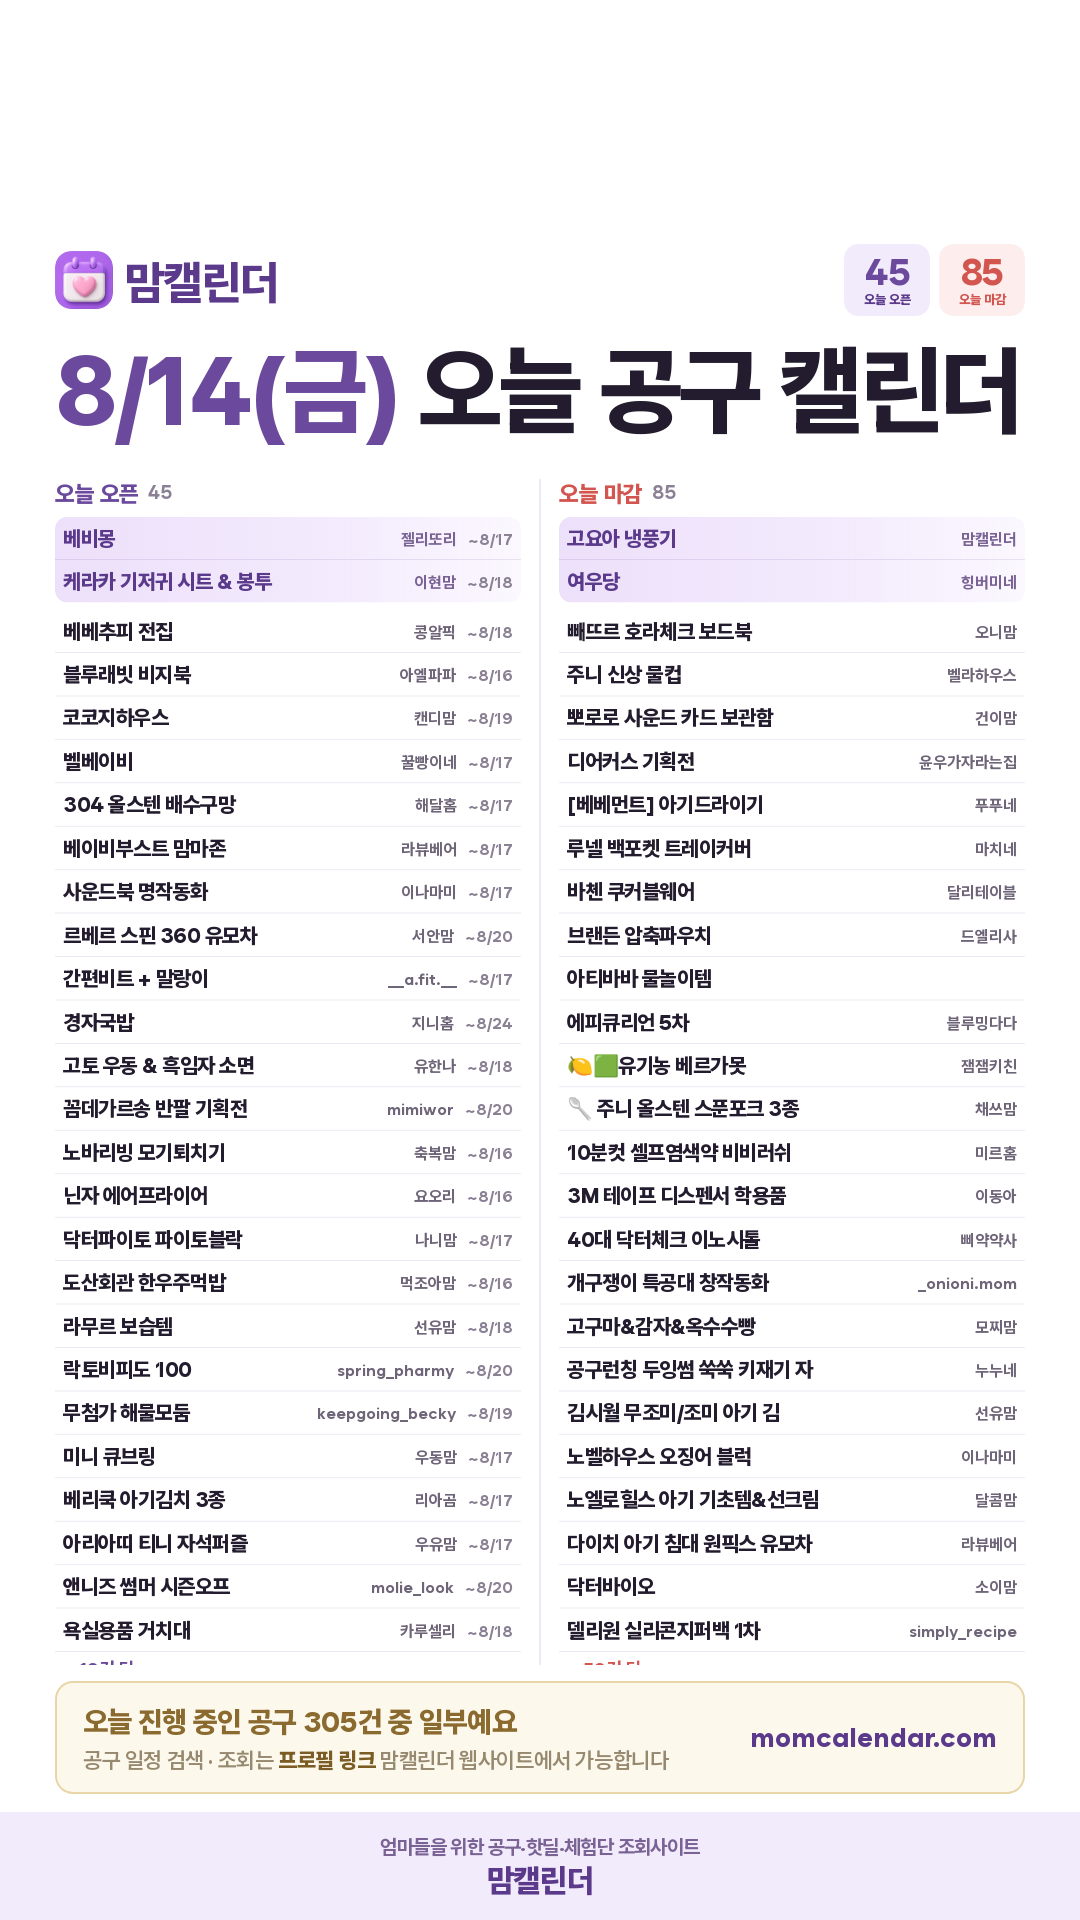
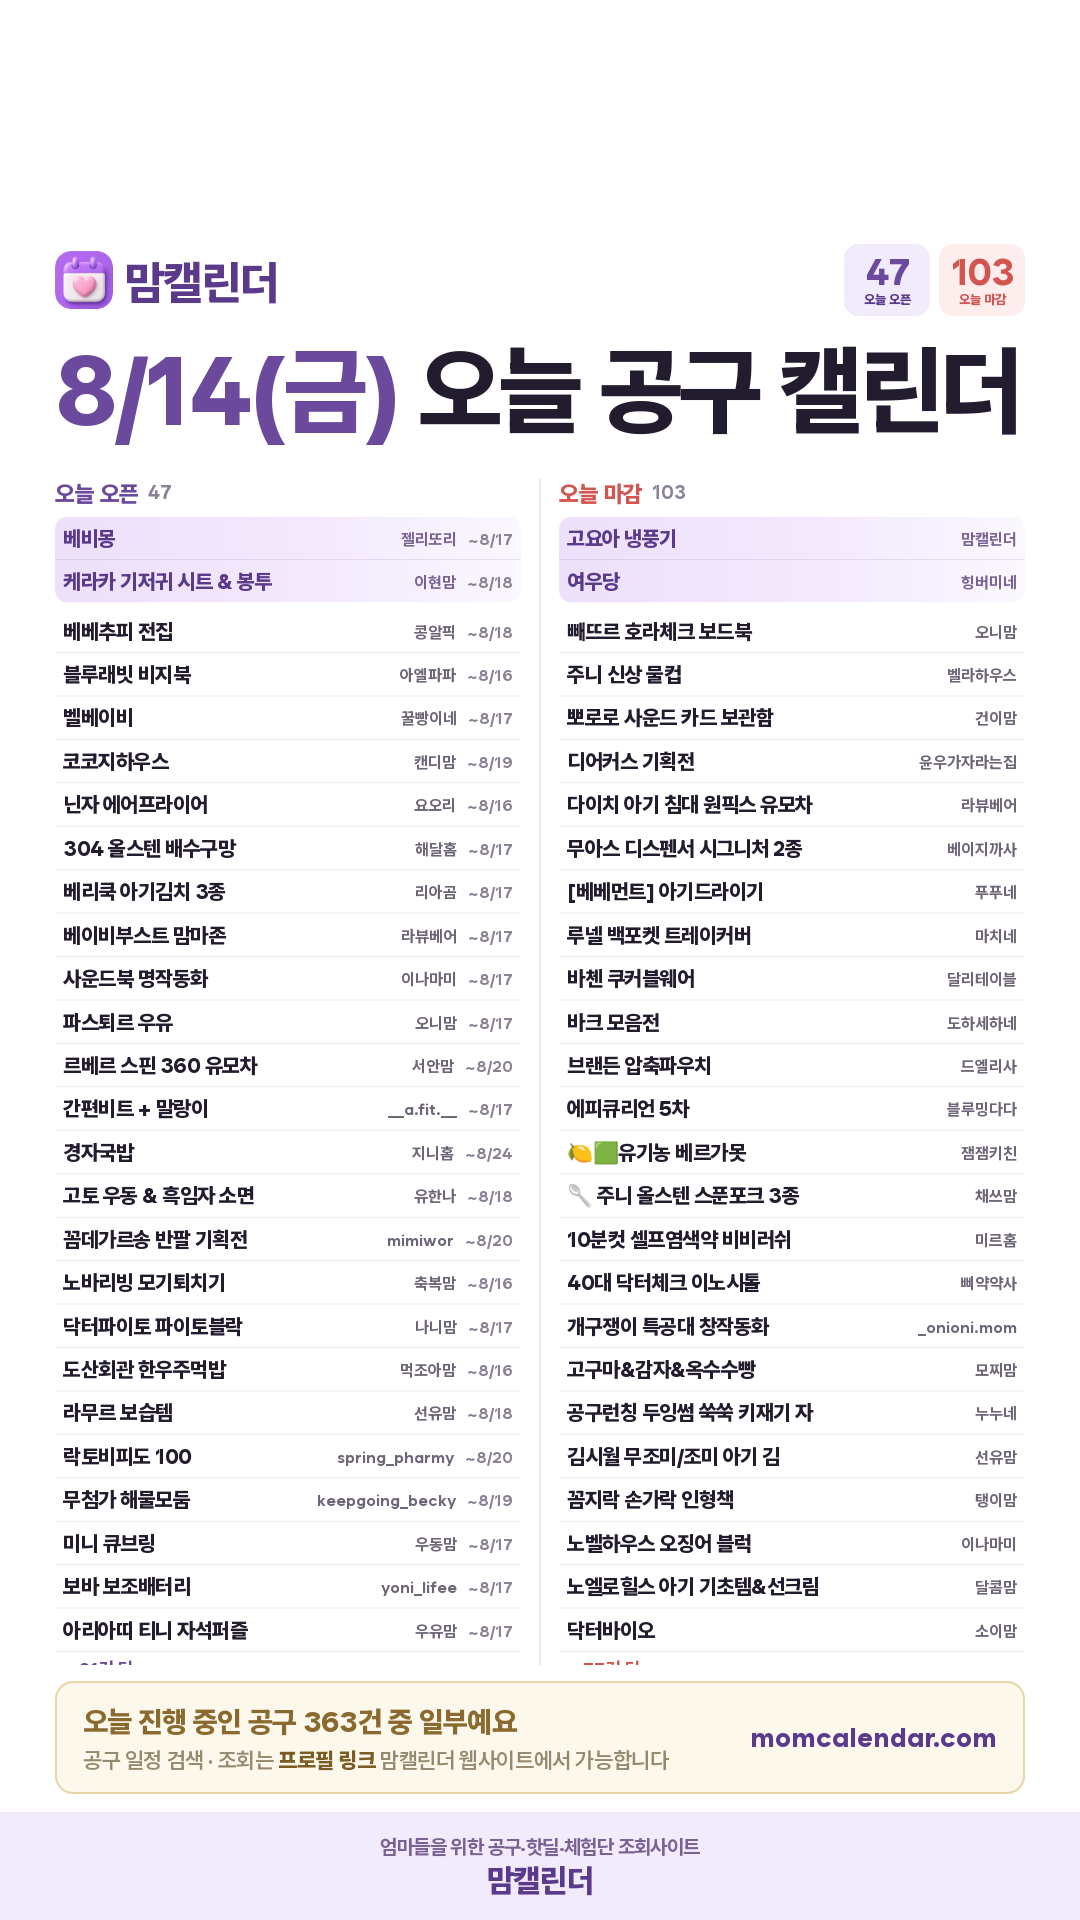
아침 인스타 카드 (2026-08-14)

diff --git a/daily/2026-08-14.html b/daily/2026-08-14.html
@@ -19,7 +19,7 @@ textarea{width:100%;height:260px;border:1px solid #E3DCEF;border-radius:10px;pad
 .todo p{font-size:12.5px;color:#6B6379;line-height:1.75;margin-top:6px}
 .todo a{color:#5B2E8C;font-weight:700}
 </style></head><body>
-<div class="hd"><div class="wrap"><h1>8월 14일(금) 인스타 카드</h1><p>오픈 45건 · 마감 85건</p></div></div>
+<div class="hd"><div class="wrap"><h1>8월 14일(금) 인스타 카드</h1><p>오픈 47건 · 마감 103건</p></div></div>
 <div class="wrap">
   <div class="todo"><b>사장님 확인 부탁드려요 · 링크프라이스 · 오늘의집 제휴 신청 (각 5분)</b><p>핫딜을 우리 수익링크로 바꿀 수 있는 곳을 늘리는 일입니다.<br>
     ① <b>링크프라이스</b> 로그인 → 머천트 검색 → <b>오늘의집·SSG</b> 제휴 신청
@@ -36,7 +36,7 @@ textarea{width:100%;height:260px;border:1px solid #E3DCEF;border-radius:10px;pad
 맘캘린더에서 공유드리는
 8월 14일(금) 오늘 공구 캘린더
 
-오픈 43건 · 마감 71건
+오픈 45건 · 마감 83건
 
 ━━━━━━━━━━━━━━
 
@@ -47,25 +47,27 @@ textarea{width:100%;height:260px;border:1px solid #E3DCEF;border-radius:10px;pad
 🔓 오늘 오픈하는 공구
 · 베베추피 전집 — 콩알픽 (~8/18)
 · 블루래빗 비지북 — 아엘파파 (~8/16)
-· 코코지하우스 — 캔디맘 (~8/19)
 · 벨베이비 — 꿀빵이네 (~8/17)
+· 코코지하우스 — 캔디맘 (~8/19)
+· 닌자 크리스피 에어프라이어 — 요오리 (~8/16)
 · 304 올스텐 배수구망 — 해달홈 (~8/17)
+· 베리쿡 아기김치 3종 — 리아곰 (~8/17)
 · 베이비부스트 맘마존 — 라뷰베어 (~8/17)
 · 사운드북 명작동화 골라담기 — 이나마미 (~8/17)
+· 파스퇴르 우유 — 오니맘 (~8/17)
 · 2026 르베르 스핀 360 유모차 — 서안맘 (~8/20)
 · 간편비트 + 말랑이 — __a.fit.__ (~8/17)
 · 경자국밥 — 지니홈 (~8/24)
 · 고토 테노베 우동 &amp; 흑임자 소면 — 유한나 (~8/18)
 · 꼼데가르송 반팔 기획전 — mimiwor (~8/20)
 · 노바리빙 모기퇴치기 — 축복맘 (~8/16)
-· 닌자 크리스피 에어프라이어 — 요오리 (~8/16)
 · 닥터파이토 파이토블락 — 나니맘 (~8/17)
 · 도산회관 한우주먹밥 — 먹조아맘 (~8/16)
 · 라무르 보습템 — 선유맘 (~8/18)
 · 락토비피도 유산균 100 — spring_pharmy (~8/20)
 · 무첨가 진짜 해물모둠 — keepgoing_becky (~8/19)
 · 미니 큐브링 — 우동맘 (~8/17)
-· 베리쿡 아기김치 3종 — 리아곰 (~8/17)
+· 보바 보조배터리 — yoni_lifee (~8/17)
 · 아리아띠 티니 자석퍼즐 — 우유맘 (~8/17)
 · 앤니즈 썸머 시즌오프 — molie_look (~8/20)
 · 욕실용품 거치대 — 카루셀리 (~8/18)
@@ -74,9 +76,7 @@ textarea{width:100%;height:260px;border:1px solid #E3DCEF;border-radius:10px;pad
 · 지구별 자연동화 — 송엘라 (~8/17)
 · 지켜텀 6종 — ssugi_table (~8/17)
 · 천연치유에센스 큐라이프 — 제제로운건강생활 (~8/18)
-· 초강력 에어건 — 마이어홈 (~8/19)
-· 코에르 욕실매트 — 돼지수 (~8/18)
-…나머지 10건은 맘캘린더 사이트에서 보실 수 있어요
+…나머지 12건은 맘캘린더 사이트에서 보실 수 있어요
 
 ⏰ 오늘 마감하는 공구
 · 고요아 냉풍기 — 맘캘린더 @momcal_
@@ -85,33 +85,33 @@ textarea{width:100%;height:260px;border:1px solid #E3DCEF;border-radius:10px;pad
 · 주니 신상 물컵 — 벨라하우스
 · 뽀로로 사운드 카드 보관함 — 건이맘
 · 디어커스 기획전 — 윤우가자라는집
+· 다이치 아기 침대 원픽스 유모차 — 라뷰베어
+· 무아스 디스펜서 시그니처 2종 — 베이지까사
 · [베베먼트] 아기드라이기 — 푸푸네
 · 루넬 트립트랩 백포켓+트레이커버 — 마치네
 · 바첸 쿠커블웨어 — 달리테이블
+· 바크 모음전 — 도하세하네
 · 브랜든 압축파우치 — 드엘리사
-· 아티바바 물놀이템 — 
 · 에피큐리언 5차 — 블루밍다다
 · 🍋🟩유기농 베르가못 — 잼잼키친
 · 🥄 주니 올스텐 스푼포크 3종 — 채쓰맘
 · 10분컷 셀프염색약 비비러쉬 — 미르홈
-· 3M 테이프 디스펜서 + 학용품 모음전 — 이동아
 · 40대 1 이노시톨 닥터체크 이노시톨 — 삐약약사
 · 개구쟁이 특공대 창작동화 — _onioni.mom
 · 고구마&amp;감자&amp;옥수수빵 — 모찌맘
 · 공구런칭 두잉썸 쑥쑥 키재기 자 — 누누네
 · 김시월 무조미/조미 아기 김 — 선유맘
+· 꼼지락 손가락 인형책 — 탱이맘
 · 노벨하우스 오징어 블럭 — 이나마미
 · 노엘로힐스 아기 기초템&amp;선크림 — 달콤맘
-· 다이치 아기 침대 원픽스 유모차 — 라뷰베어
 · 닥터바이오 — 소이맘
 · 델리원 실리콘지퍼백 1차 — simply_recipe
 · 라무르 선케어템 + 전제품 — 아이러브유니
 · 마시는 수액 워터온 — yak_father
 · 마인크래프트 큐브블록 — 오꼬베
+· 마티앙쥬 미술가운 — 용복맘
 · 명희홈쿡 바로육수 — 명희홈쿡
-· 모슈텀블러 — 살구홈
-· 모오아 과일세척기 — 러브율홈
-…나머지 39건은 맘캘린더 사이트에서 보실 수 있어요
+…나머지 51건은 맘캘린더 사이트에서 보실 수 있어요
 
 ━━━━━━━━━━━━━━
 
@@ -124,12 +124,12 @@ textarea{width:100%;height:260px;border:1px solid #E3DCEF;border-radius:10px;pad
 ⚠ 공구 일정은 판매자 사정에 따라 변경되거나 조기 마감될 수 있어요. 구매 전에 해당 셀러 계정에서 한 번 더 확인해 주세요.
 
 #맘캘린더 #공구일정 #육아공구 #육아용품 #책육아 #공구추천 #육아맘 #맘스타그램 #공동구매 #육아정보 #공구정보 #육아템</textarea>
-    <div class="meta">2179자 / 2200자 · 오픈 31/41 · 마감 32/71</div>
+    <div class="meta">2189자 / 2200자 · 오픈 31/43 · 마감 32/83</div>
     <button class="btn btn2" onclick="cp('cap','캡션')">캡션 복사</button>
   </div>
   <div class="card">
     <div class="meta" style="margin:0 0 8px;font-weight:800;color:#5B2E8C">네이버 블로그용 (blog.naver.com/momcal) — 수정해서 쓰셔도 돼요</div>
-    <textarea id="btitle" style="height:54px">8월 14일(금) 닌자·간편비트·닥터파이토·락토비피도·노바리빙·라무르·욕실용품·지켜텀 공구 오픈 | 공구 일정 모음</textarea>
+    <textarea id="btitle" style="height:54px">8월 14일(금) 닌자·간편비트·닥터파이토·락토비피도·노바리빙·라무르·보바·욕실용품 공구 오픈 | 공구 일정 모음</textarea>
     <button class="btn btn2" onclick="cp('btitle','블로그 제목')">블로그 제목 복사</button>
     <textarea id="bbody" style="margin-top:9px">맘캘린더 채널 한눈에
 · 전체 공구 일정 실시간 검색 → https://momcalendar.com
@@ -142,12 +142,12 @@ textarea{width:100%;height:260px;border:1px solid #E3DCEF;border-radius:10px;pad
 · 카톡 수다방 → https://open.kakao.com/o/gr2kJhCh
 ─────────────
 
-8월 14일(금), 오늘 새로 오픈하는 인스타 공구일정 45건을 카테고리별로 정리했어요.
-오늘 마감되는 공구도 86건 있으니 놓치지 마세요.
+8월 14일(금), 오늘 새로 오픈하는 인스타 공구일정 47건을 카테고리별로 정리했어요.
+오늘 마감되는 공구도 105건 있으니 놓치지 마세요.
 
 (여기에 저장해 두신 카드 사진을 넣어주세요)
 
-■ 오늘 오픈하는 공구 45건
+■ 오늘 오픈하는 공구 47건
 
 [육아]
 · 2026 르베르 스핀 360 유모차 — 서안맘 (~8/20 마감)
@@ -173,6 +173,7 @@ textarea{width:100%;height:260px;border:1px solid #E3DCEF;border-radius:10px;pad
 · 304 올스텐 배수구망 — 해달홈 (~8/17 마감)
 · 노바리빙 모기퇴치기 — 축복맘 (~8/16 마감)
 · 라무르 보습템 — 선유맘 (~8/18 마감)
+· 보바 보조배터리 — yoni_lifee (~8/17 마감)
 · 욕실용품 거치대 — 카루셀리 (~8/18 마감)
 · 지켜텀 6종 — ssugi_table (~8/17 마감)
 · 초강력 에어건 — 마이어홈 (~8/19 마감)
@@ -208,9 +209,10 @@ textarea{width:100%;height:260px;border:1px solid #E3DCEF;border-radius:10px;pad
 · 앤니즈 썸머 시즌오프 — molie_look (~8/20 마감)
 
 [여행]
+· 타고가요 캐리어 특가 — 양미라 (~8/20 마감)
 · 타월톡톡 호텔수건 — 집순키친 (~8/17 마감)
 
-■ 오늘 마감하는 공구 86건
+■ 오늘 마감하는 공구 105건
 · [베베먼트] 아기드라이기 — 푸푸네
 · 🍋🟩유기농 베르가못 — 잼잼키친
 · 🥄 주니 올스텐 스푼포크 3종 — 채쓰맘
@@ -225,6 +227,7 @@ textarea{width:100%;height:260px;border:1px solid #E3DCEF;border-radius:10px;pad
 · 고요아 냉풍기 — 맘캘린더
 · 공구런칭 두잉썸 쑥쑥 키재기 자 — 누누네
 · 김시월 무조미/조미 아기 김 — 선유맘
+· 꼼지락 손가락 인형책 — 탱이맘
 · 노벨하우스 오징어 블럭 — 이나마미
 · 노엘로힐스 아기 기초템&amp;선크림 — 달콤맘
 · 다이치 아기 침대 원픽스 유모차 — 라뷰베어
@@ -233,6 +236,7 @@ textarea{width:100%;height:260px;border:1px solid #E3DCEF;border-radius:10px;pad
 · 담백하루 프리미엄 단백질쉐이크🤎 — 남약사
 · 델리원 실리콘지퍼백 1차 — simply_recipe
 · 디어커스 기획전 — 윤우가자라는집
+· 디어커스 총판 — 또니맘
 · 디어커스 팝콘백 — 별난맘
 · 라무르 선케어템 + 전제품 — 아이러브유니
 · 라무르 선쿠션 선로션 — __ahyoonss
@@ -241,18 +245,25 @@ textarea{width:100%;height:260px;border:1px solid #E3DCEF;border-radius:10px;pad
 · 리라그루브 필기도구 세트 — 건이맘
 · 마시는 수액 워터온 — yak_father
 · 마인크래프트 큐브블록 — 오꼬베
+· 마티앙쥬 미술가운 — 용복맘
 · 명희홈쿡 바로육수 — 명희홈쿡
 · 모슈텀블러 — 살구홈
 · 모오아 과일세척기 — 러브율홈
 · 목욕놀이 4종 색깔·구름·폭탄·배쓰밤 6차 — 1201w__love
+· 몰리멜리 가을신상 — 마이희로
 · 무아스 디스펜서 시그니처 2종 — 베이지까사
 · 무항생제 프리미엄 장어 — 웰씨
 · 미라클 탱글오징어 — miracle_eunju119
 · 미라클통 식재료 보관용기 2차 — 다다맘
 · 바겐슈타이거 스텐박스 — minhi.house
 · 바첸 쿠커블웨어 — 달리테이블
+· 바크 모음전 — 도하세하네
 · 밥스누 우아한김 — 앤지맘
+· 버드시아 욕조용 아기세면대+욕실의자 — 또후니맘
 · 베디베로 선글라스 기획전 — 앙젤리크
+· 베베먼트 무선 아기 드라이기 — 푸푸네집
+· 벨베이비 레일퍼즐 — 다니랑
+· 보라카이 — yupi25
 · 브랜든 압축파우치 — 드엘리사
 · 빈투움 청소 도구 수납함 — 블라제이
 · 빼뜨르 호라체크 보드북 — 오니맘
@@ -260,19 +271,26 @@ textarea{width:100%;height:260px;border:1px solid #E3DCEF;border-radius:10px;pad
 · 뽀로로 미술놀이&amp;스티커북 — 
 · 뽀로로 사운드 카드 보관함 — 건이맘
 · 뽀로로 카페 신상텐트 펫 장난감 핫딜 — 6a.how
+· 뽀로로 텐트&amp;뽀로로 미니펫 — 육아노하우
 · 삼천리 샘트라이크 2026 콤팩트 — seono_life
 · 상국이네 떡볶이 — 대장언니
 · 생활특권 방수 대형 빈백 — 축복맘
 · 세부 제이파크 — 여행특가 말랑맘
 · 슈로스바 — shanii.mom
 · 슈퍼 매직 파닉스 — 
+· 스냅키드 타이어 주차타워 — 라리맘
+· 스노우키즈 미술놀이 — 용복맘
+· 아가드 분수매트 — 쓰리빈즈
+· 아기상어 목욕놀이 — 강윤맘
 · 아기상어 빛따라그리기 테이블 — 모락맘
 · 아티바바 물놀이템 — 
 · 아티잔 사각싱크볼 — mini_home_____
+· 앙블랑 물티슈 — 하짱네
 · 에피큐리언 5차 — 블루밍다다
 · 여우당 — 힝버미네
 · 여행용 드라이기 — oliviahome
 · 오르다 매파빌 — 리리맘
+· 요거쫀쫀 요거트 — 따리따리
 · 유키모찌 아이스크림 — 베라킴
 · 이담허그소파 — 도다미네
 · 이지드롭 변기클리너 — 레이첼민선
@@ -282,8 +300,10 @@ textarea{width:100%;height:260px;border:1px solid #E3DCEF;border-radius:10px;pad
 · 주니 모음전 — 짱구맘
 · 주니 신상 물컵 — 벨라하우스
 · 주니 안전용품 — 우유맘
+· 코에르매트 — 포포네
 · 쾌존 음식물처리기 — 엘쓰맘
 · 쿠진아트 스팀 에어프라이어 20L — 츄미살림
+· 키즈위드 그림자극장 — 수봉
 · 키즈프렌들리 워터파크 리조트 공구 — __happy.jiwoo
 · 키토케토 MCT 다크초콜릿 &amp; 피넛크런치 — 켜니
 · 킨즈n르베르 스핀360 유모카 — 리아곰
@@ -292,6 +312,7 @@ textarea{width:100%;height:260px;border:1px solid #E3DCEF;border-radius:10px;pad
 · 트루엔키즈 샤르르 리포좀 비타민C&amp;D — strawberry_yaksa
 · 포티니 식기건조대 — 앨리스홈
 · 폴로 린넨셔츠 시즌오프 — 제제백화점
+· 피터씨마켓 순살생선 — 째째홈
 · 한국사 공부 뉴 교찢스 — neuldanim_play
 · 한화리조트 설악 화순 통영 제주 패키지 — hyeju._.m
 · 헤어메스 — 유한나
@@ -300,7 +321,7 @@ textarea{width:100%;height:260px;border:1px solid #E3DCEF;border-radius:10px;pad
 
 ※ 공구 일정은 판매자 사정에 따라 변경되거나 조기 마감될 수 있어요. 구매 전에 해당 셀러 계정에서 한 번 더 확인해 주세요.
 
-#공구일정 #인스타공구 #인스타공구일정 #공동구매 #오늘의공구 #육아공구 #공구모음 #닌자공구 #간편비트공구 #닥터파이토공구 #락토비피도공구 #노바리빙공구 #라무르공구 #욕실용품공구 #지켜텀공구</textarea>
+#공구일정 #인스타공구 #인스타공구일정 #공동구매 #오늘의공구 #육아공구 #공구모음 #닌자공구 #간편비트공구 #닥터파이토공구 #락토비피도공구 #노바리빙공구 #라무르공구 #보바공구 #욕실용품공구</textarea>
     <button class="btn" onclick="cp('bbody','블로그 본문 전체')">블로그 본문 전체 복사 (태그 포함)</button>
     <div class="meta">순서: 사진 저장 → 블로그 앱 글쓰기 → 제목 붙여넣기 → 본문 붙여넣기 → (여기에 카드 사진) 자리에 사진 → 발행. 끝의 #태그들은 자동으로 태그가 돼요</div>
   </div>

diff --git a/daily/index.html b/daily/index.html
@@ -1,1 +1,1 @@
-<!DOCTYPE html><meta charset="UTF-8"><meta http-equiv="refresh" content="0;url=./2026-08-13.html">
+<!DOCTYPE html><meta charset="UTF-8"><meta http-equiv="refresh" content="0;url=./2026-08-14.html">
